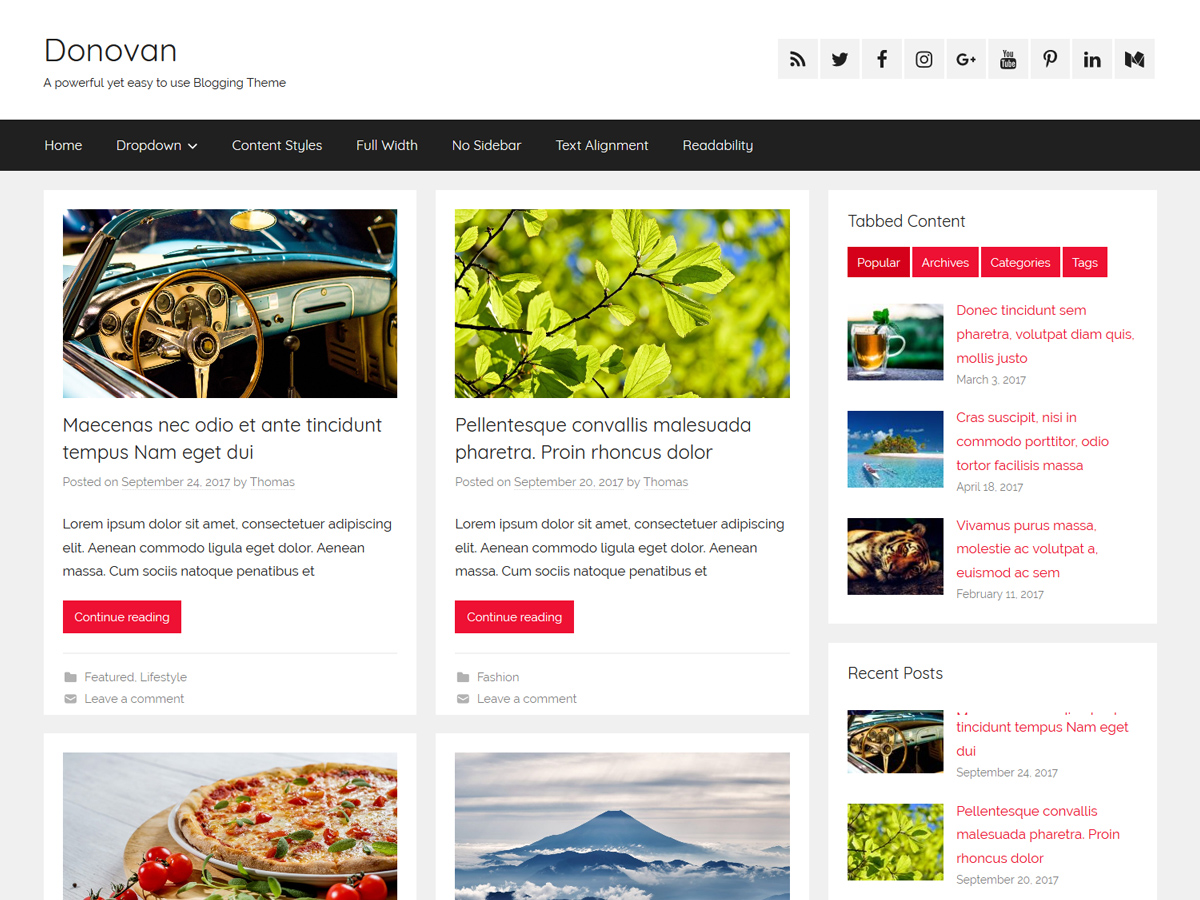
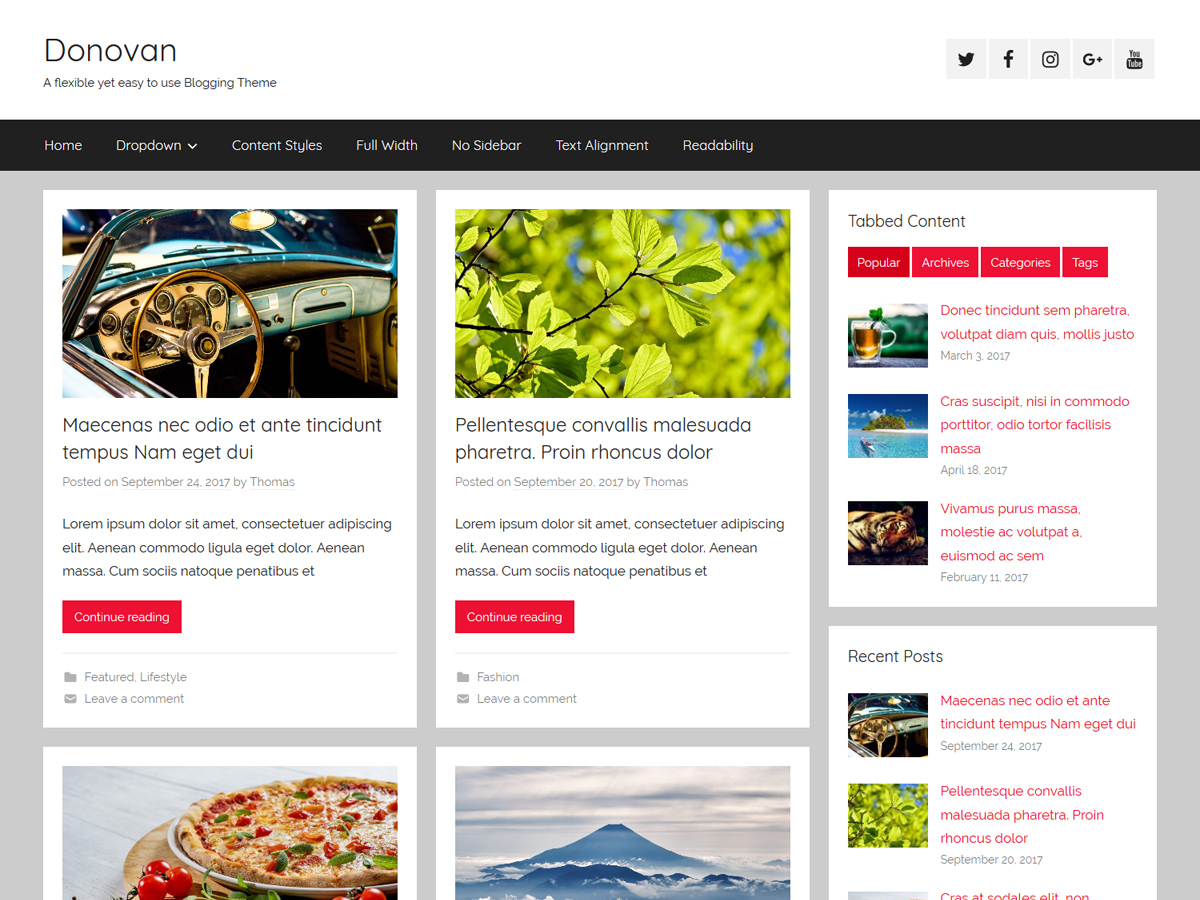
changed default background color

diff --git a/style.css b/style.css
@@ -4,7 +4,7 @@ Theme URI: https://themezee.com/themes/donovan/
 Author: ThemeZee
 Author URI: https://themezee.com
 Description: Donovan is a flexible yet easy to use blogging theme with a clean and modern design. It features an elegant mobile first design, three different blog layouts and extensive post settings. Donovan is perfect for your personal blog or any content focused website.
-Version: 1.0
+Version: 1.0.1
 License: GNU General Public License v2 or later
 License URI: http://www.gnu.org/licenses/gpl-2.0.html
 Text Domain: donovan
@@ -438,7 +438,7 @@ html {
 }
 
 body {
-	background: #f0f0f0; /* Fallback for when there is no custom background color defined. */
+	background: #ccc; /* Fallback for when there is no custom background color defined. */
 }
 
 blockquote {

diff --git a/sass/style.scss b/sass/style.scss
@@ -4,7 +4,7 @@ Theme URI: https://themezee.com/themes/donovan/
 Author: ThemeZee
 Author URI: https://themezee.com
 Description: Donovan is a flexible yet easy to use blogging theme with a clean and modern design. It features an elegant mobile first design, three different blog layouts and extensive post settings. Donovan is perfect for your personal blog or any content focused website.
-Version: 1.0
+Version: 1.0.1
 License: GNU General Public License v2 or later
 License URI: http://www.gnu.org/licenses/gpl-2.0.html
 Text Domain: donovan

diff --git a/sass/setup/elements.scss b/sass/setup/elements.scss
@@ -9,7 +9,7 @@ html {
 }
 
 body {
-	background: #f0f0f0; /* Fallback for when there is no custom background color defined. */
+	background: #ccc; /* Fallback for when there is no custom background color defined. */
 }
 
 blockquote {

diff --git a/functions.php b/functions.php
@@ -55,7 +55,7 @@ if ( ! function_exists( 'donovan_setup' ) ) :
 
 		// Set up the WordPress core custom background feature.
 		add_theme_support( 'custom-background', apply_filters( 'donovan_custom_background_args', array(
-			'default-color' => 'f0f0f0',
+			'default-color' => 'cccccc',
 		) ) );
 
 		// Set up the WordPress core custom logo feature.
